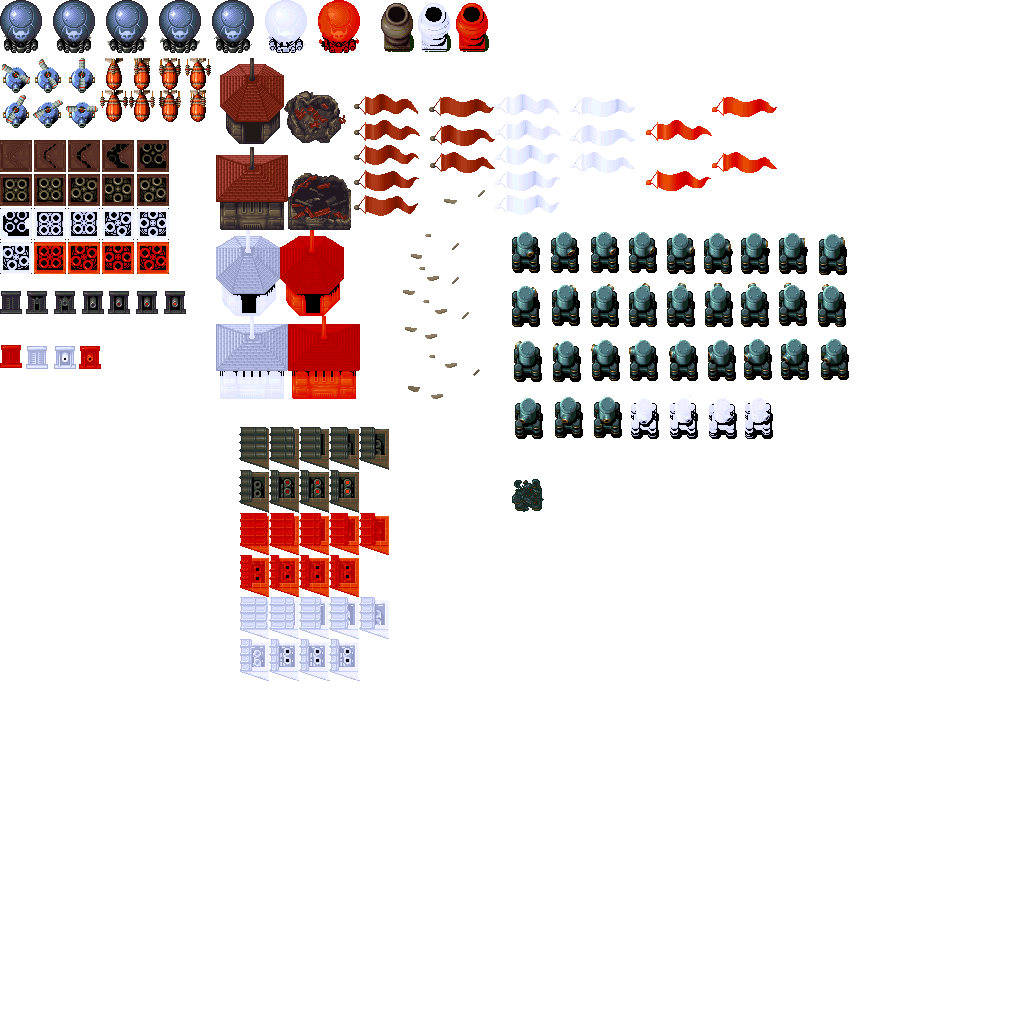
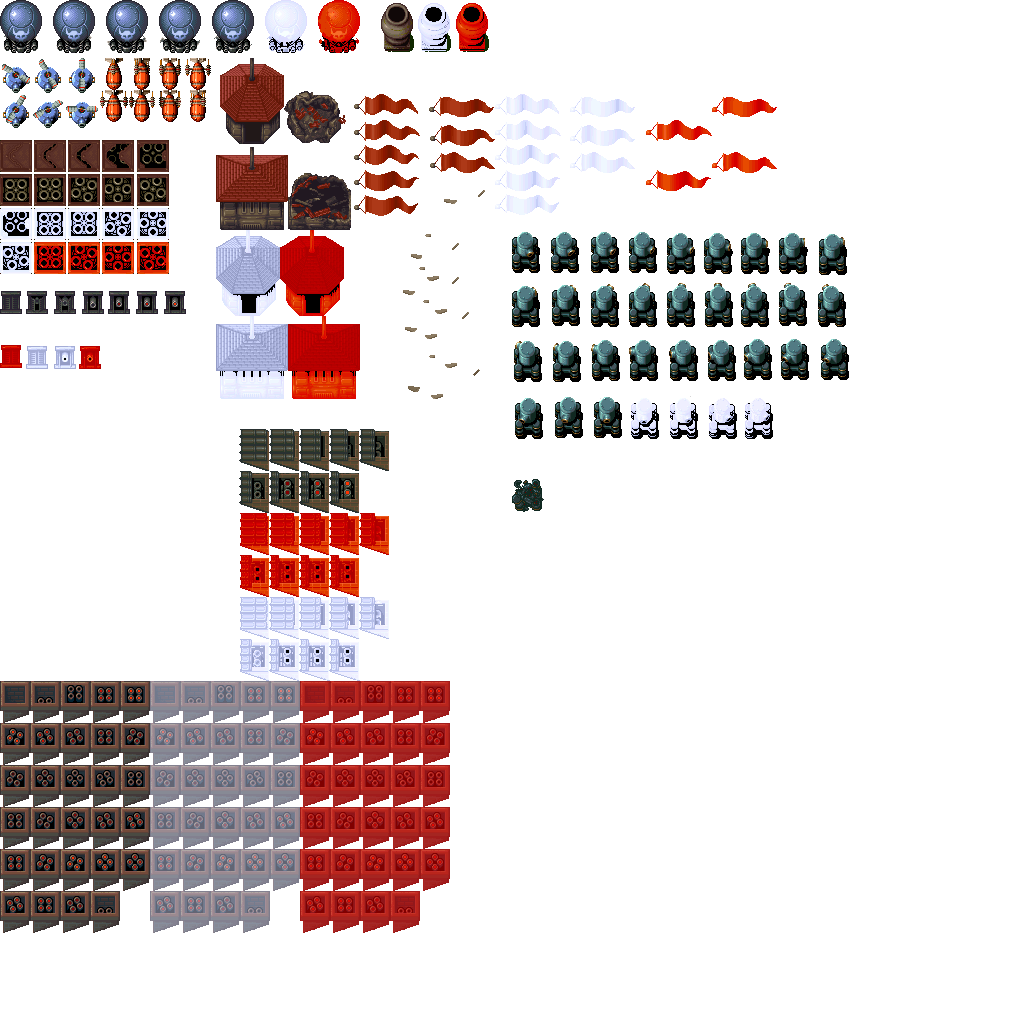
4 cannon turret added

Changed region(s): [[0.0, 0.6562, 0.4375, 0.9062], [0.2188, 0.4062, 0.375, 0.5]]

diff --git a/gunbird/Enemy_4CannonTurret.cpp b/gunbird/Enemy_4CannonTurret.cpp
@@ -1,0 +1,176 @@
+#include "Application.h"
+#include "ModuleRender.h"
+#include "ModuleParticles.h"
+#include "Enemy_4CannonTurret.h"
+#include "ModulePlayer.h"
+#include "ModuleEnemies.h"
+#include "ModuleCollision.h"
+#include "SDL/include/SDL_timer.h"
+#include <cmath>
+
+
+
+Enemy_4CannonTurret::Enemy_4CannonTurret(int x, int y, int option) : Enemy(x, y, option)
+{
+
+	status = NORMAL;
+
+	closed.PushBack({ 0, 681, 30, 42 });
+	closed.loop = false;
+
+	closed_hit.PushBack({ 150, 681, 30, 42 });
+	closed.loop = false;
+
+	closed_damaged.PushBack({ 300, 681, 30, 42 });
+	closed.loop = false;
+
+	attacking.PushBack({ 30, 681, 30, 42 });
+	attacking.PushBack({ 60, 681, 30, 42 });
+	attacking.PushBack({ 90, 681, 30, 42 });
+	attacking.PushBack({ 120, 681, 30, 42 });
+	attacking.PushBack({ 0, 723, 30, 42 });
+	attacking.PushBack({ 30, 723, 30, 42 });
+	attacking.PushBack({ 60, 723, 30, 42 });
+	attacking.PushBack({ 90, 723, 30, 42 });
+	attacking.PushBack({ 120, 723, 30, 42 });
+	attacking.PushBack({ 0, 765, 30, 42 });
+	attacking.PushBack({ 30, 765, 30, 42 });
+	attacking.PushBack({ 60, 765, 30, 42 });
+	attacking.PushBack({ 90, 765, 30, 42 });
+	attacking.PushBack({ 120, 765, 30, 42 });
+	attacking.PushBack({ 0, 807, 30, 42 });
+	attacking.PushBack({ 30, 807, 30, 42 });
+	attacking.PushBack({ 60, 807, 30, 42 });
+	attacking.PushBack({ 90, 807, 30, 42 });
+	attacking.PushBack({ 120, 807, 30, 42 });
+	attacking.PushBack({ 0, 849, 30, 42 });
+	attacking.PushBack({ 30, 849, 30, 42 });
+	attacking.PushBack({ 60, 849, 30, 42 });
+	attacking.PushBack({ 90, 849, 30, 42 });
+	attacking.PushBack({ 120, 849, 30, 42 });
+	attacking.PushBack({ 0, 891, 30, 42 });
+	attacking.PushBack({ 30, 891, 30, 42 });
+	attacking.PushBack({ 60, 891, 30, 42 });
+	attacking.PushBack({ 90, 891, 30, 42 });
+	attacking.speed = 0.5f;
+
+	attacking_hit.PushBack({ 180, 681, 30, 42 });
+	attacking_hit.PushBack({ 210, 681, 30, 42 });
+	attacking_hit.PushBack({ 240, 681, 30, 42 });
+	attacking_hit.PushBack({ 270, 681, 30, 42 });
+	attacking_hit.PushBack({ 150, 723, 30, 42 });
+	attacking_hit.PushBack({ 180, 723, 30, 42 });
+	attacking_hit.PushBack({ 210, 723, 30, 42 });
+	attacking_hit.PushBack({ 240, 723, 30, 42 });
+	attacking_hit.PushBack({ 270, 723, 30, 42 });
+	attacking_hit.PushBack({ 150, 765, 30, 42 });
+	attacking_hit.PushBack({ 180, 765, 30, 42 });
+	attacking_hit.PushBack({ 210, 765, 30, 42 });
+	attacking_hit.PushBack({ 240, 765, 30, 42 });
+	attacking_hit.PushBack({ 270, 765, 30, 42 });
+	attacking_hit.PushBack({ 150, 807, 30, 42 });
+	attacking_hit.PushBack({ 180, 807, 30, 42 });
+	attacking_hit.PushBack({ 210, 807, 30, 42 });
+	attacking_hit.PushBack({ 240, 807, 30, 42 });
+	attacking_hit.PushBack({ 270, 807, 30, 42 });
+	attacking_hit.PushBack({ 150, 849, 30, 42 });
+	attacking_hit.PushBack({ 180, 849, 30, 42 });
+	attacking_hit.PushBack({ 210, 849, 30, 42 });
+	attacking_hit.PushBack({ 240, 849, 30, 42 });
+	attacking_hit.PushBack({ 270, 849, 30, 42 });
+	attacking_hit.PushBack({ 150, 891, 30, 42 });
+	attacking_hit.PushBack({ 170, 891, 30, 42 });
+	attacking_hit.PushBack({ 210, 891, 30, 42 });
+	attacking_hit.PushBack({ 240, 891, 30, 42 });
+	attacking_hit.speed = 0.5f;
+
+	attacking_damaged.PushBack({ 330, 681, 30, 42 });
+	attacking_damaged.PushBack({ 360, 681, 30, 42 });
+	attacking_damaged.PushBack({ 390, 681, 30, 42 });
+	attacking_damaged.PushBack({ 420, 681, 30, 42 });
+	attacking_damaged.PushBack({ 300, 723, 30, 42 });
+	attacking_damaged.PushBack({ 330, 723, 30, 42 });
+	attacking_damaged.PushBack({ 360, 723, 30, 42 });
+	attacking_damaged.PushBack({ 390, 723, 30, 42 });
+	attacking_damaged.PushBack({ 420, 723, 30, 42 });
+	attacking_damaged.PushBack({ 300, 765, 30, 42 });
+	attacking_damaged.PushBack({ 330, 765, 30, 42 });
+	attacking_damaged.PushBack({ 360, 765, 30, 42 });
+	attacking_damaged.PushBack({ 390, 765, 30, 42 });
+	attacking_damaged.PushBack({ 420, 765, 30, 42 });
+	attacking_damaged.PushBack({ 300, 807, 30, 42 });
+	attacking_damaged.PushBack({ 330, 807, 30, 42 });
+	attacking_damaged.PushBack({ 360, 807, 30, 42 });
+	attacking_damaged.PushBack({ 390, 807, 30, 42 });
+	attacking_damaged.PushBack({ 420, 807, 30, 42 });
+	attacking_damaged.PushBack({ 300, 849, 30, 42 });
+	attacking_damaged.PushBack({ 330, 849, 30, 42 });
+	attacking_damaged.PushBack({ 360, 849, 30, 42 });
+	attacking_damaged.PushBack({ 390, 849, 30, 42 });
+	attacking_damaged.PushBack({ 420, 849, 30, 42 });
+	attacking_damaged.PushBack({ 300, 891, 30, 42 });
+	attacking_damaged.PushBack({ 330, 891, 30, 42 });
+	attacking_damaged.PushBack({ 360, 891, 30, 42 });
+	attacking_damaged.PushBack({ 390, 891, 30, 42 });
+	attacking_damaged.speed = 0.5f;
+
+	
+
+	animation = &attacking;
+
+	collider = App->collision->AddCollider({ 0, 0, 30, 43 }, COLLIDER_TYPE::COLLIDER_ENEMY, (Module*)App->enemies);
+
+	path.PushBack({ 0.0f, 0.4f }, 10000);
+
+	original_pos.x = x;
+	original_pos.y = y;
+
+	hp = 10.0f;
+	damaged_hp = 7;
+	death_type = SMALL_ENEMY;
+	flying = false;
+	killscore = 200;
+}
+
+void Enemy_4CannonTurret::Move()
+{
+	position = original_pos + path.GetCurrentPosition();
+
+	/*if (status == NORMAL)
+	aditional_animation = &closed;
+
+	if (status == HIT)
+	aditional_animation = &closed_hit;
+
+	if (status == DAMAGED)
+	aditional_animation = &closed_damaged;*/
+
+	if (status == NORMAL)
+		animation = &attacking;
+
+	if (status == HIT)
+		animation = &attacking_hit;
+
+	if (status == DAMAGED)
+	{
+		if (counter == 0)
+			animation = &attacking_damaged;
+		else
+			animation = &attacking;
+		counter++;
+		if (counter == 20)counter = 0;
+	}
+}
+
+void Enemy_4CannonTurret::Shoot()
+{
+	if (reload == 0)
+	{
+		bullet_speed = ShootCalculator({ position.x + 12, position.y + 10 }, { App->player->position.x + 11, App->player->position.y + 11 });
+		App->particles->AddParticle(App->particles->smallshot, position.x + 12, position.y + 10, COLLIDER_ENEMY_SHOT, bullet_speed.x, bullet_speed.y, false);
+		bullet_speed = ShootCalculator({ position.x + 12, position.y + 3 }, { App->player->position.x + 11, App->player->position.y + 11 });
+		App->particles->AddParticle(App->particles->smallshot, position.x + 12, position.y + 3, COLLIDER_ENEMY_SHOT, bullet_speed.x, bullet_speed.y, false);
+	}
+	reload++;
+	if (reload == 40)reload = 0;
+}

diff --git a/gunbird/ModuleEnemies.cpp b/gunbird/ModuleEnemies.cpp
@@ -15,6 +15,7 @@
 #include "Enemy_RotatingTurret.h"
 #include "Enemy_WindowGun.h"
 #include "Enemy_2CannonTurret.h"
+#include "Enemy_4CannonTurret.h"
 
 
 #define SPAWN_MARGIN 500
@@ -175,6 +176,9 @@ void ModuleEnemies::SpawnEnemy(const EnemyInfo& info)
 			break;
 		case ENEMY_TYPES::TWOCANNONTURRET:
 			enemies[i] = new Enemy_2CannonTurret(info.x, info.y, info.pathoption);
+			break;
+		case ENEMY_TYPES::FOURCANNONTURRET:
+			enemies[i] = new Enemy_4CannonTurret(info.x, info.y, info.pathoption);
 			break;
 		}
 	}

diff --git a/gunbird/Enemy_4CannonTurret.h b/gunbird/Enemy_4CannonTurret.h
@@ -1,0 +1,24 @@
+#ifndef __ENEMY_4CASTLETURRET_H__
+#define __ENEMY_4CASTLETURRET_H__
+
+#include "Enemy.h"
+#include "Path.h"
+
+class Enemy_4CannonTurret : public Enemy
+{
+
+private:
+	iPoint original_pos;
+	Animation closed, closed_hit, closed_damaged;
+	Animation attacking, attacking_hit, attacking_damaged;
+	int counter = 0;
+
+	Path path;
+public:
+	Enemy_4CannonTurret(int x, int y, int option);
+	void Shoot();
+	void Move();
+	int initcounter = 0;
+	float aux_float;
+};
+#endif

diff --git a/gunbird/ModuleVillageScene.cpp b/gunbird/ModuleVillageScene.cpp
@@ -85,6 +85,10 @@ bool ModuleVillageScene::Start()
 
 	//--Adding Rooftop Turrets--
 	App->enemies->AddEnemy(ENEMY_TYPES::TWOCANNONTURRET, 26, -525, 0);
+	App->enemies->AddEnemy(ENEMY_TYPES::TWOCANNONTURRET, 26, -585, 0);
+
+	App->enemies->AddEnemy(ENEMY_TYPES::FOURCANNONTURRET, 135, -520, 0);
+	App->enemies->AddEnemy(ENEMY_TYPES::FOURCANNONTURRET, 135, -570, 0);
 
 	return true;
 }

diff --git a/gunbird/Animation.h b/gunbird/Animation.h
@@ -3,7 +3,7 @@
 #include <assert.h>
 #include "SDL/include/SDL_rect.h"
 
-#define MAX_FRAMES 30
+#define MAX_FRAMES 35
 
 class Animation
 {

diff --git a/gunbird/ModuleEnemies.h b/gunbird/ModuleEnemies.h
@@ -26,6 +26,7 @@ enum ENEMY_TYPES
 	ROTATINGTURRET,
 	WINDOWGUN,
 	TWOCANNONTURRET,
+	FOURCANNONTURRET,
 };
 
 class Enemy;
